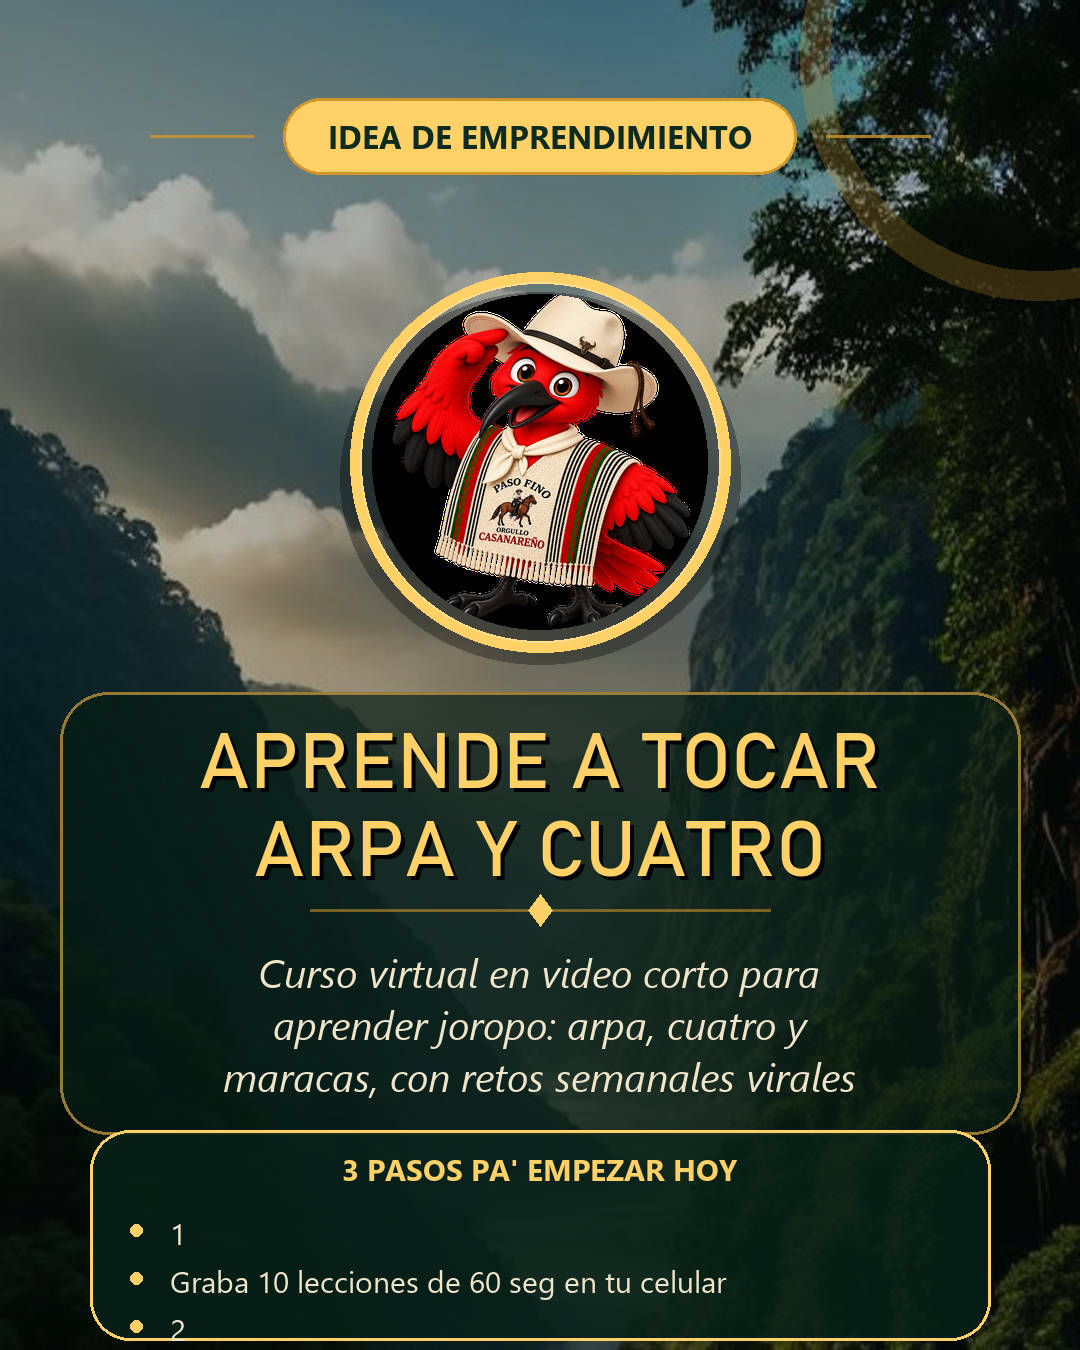
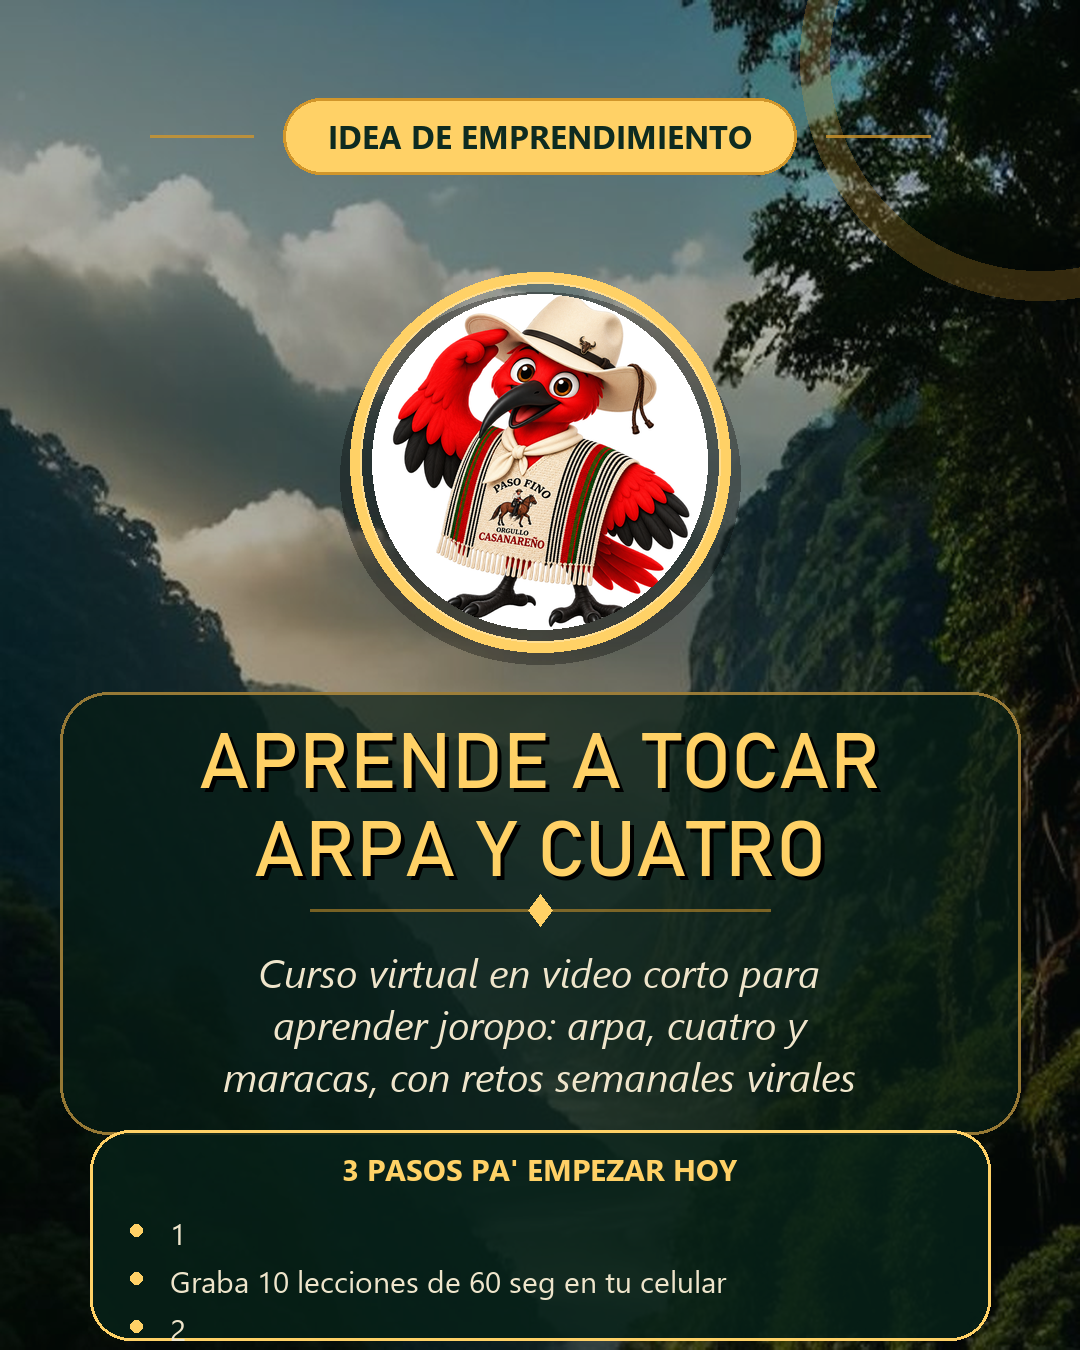
Objetivos del dia en el panel (5am idea, post, video, chats) + estilo profesional

Changed region(s): [[0.3361, 0.2178, 0.6722, 0.4667]]

diff --git a/backend/static/index.html b/backend/static/index.html
@@ -85,6 +85,18 @@ main{max-width:1020px;margin:0 auto;padding:22px 16px 56px}
 .bar:hover .v{filter:saturate(1.2)brightness(1.05)}
 .bar .d{font-size:11px;font-weight:800;margin-top:8px;color:#8a8178}
 .bar .d b{color:var(--negro)}
+/* objetivos del día */
+.objs{background:#fff;border:2px solid var(--borde);border-radius:22px;padding:8px 16px;box-shadow:0 8px 22px rgba(20,17,15,.06);animation:subir .5s ease backwards .1s}
+.objs .row{display:flex;align-items:center;gap:12px;padding:11px 0;border-bottom:1px solid #f6efe4}
+.objs .row:last-child{border-bottom:none}
+.objs .chk{width:34px;height:34px;border-radius:50%;border:2px dashed #e5dcc9;display:flex;align-items:center;justify-content:center;color:#b7ae9f;flex:0 0 34px}
+.objs .row.hecho .chk{background:linear-gradient(135deg,var(--amar),var(--nar));border:2px solid var(--nar);color:#fff;box-shadow:0 4px 10px rgba(255,107,0,.3)}
+.objs .row .tt{font-size:14px;font-weight:800;color:var(--negro)}
+.objs .row .tt i{margin-right:8px;color:var(--nar)}
+.objs .row .dt{font-size:12px;color:#8a8178;font-weight:700}
+.objs .row.hecho .tt i{color:#1f9d55}
+.objs .bol{margin-left:auto;font-size:11px;font-weight:900;letter-spacing:.5px;color:#b7ae9f;background:#f3efe8;border-radius:999px;padding:4px 12px}
+.objs .row.hecho .bol{background:linear-gradient(135deg,var(--amar),var(--nar));color:#fff}
 /* nota foto */
 .aviso{display:flex;flex-wrap:wrap;gap:12px;align-items:center;background:linear-gradient(120deg,#fffdf3,#ffe9c7);border:2px solid #ffdfae;border-radius:20px;padding:14px 18px;margin-top:16px;box-shadow:0 6px 16px rgba(255,192,0,.12)}
 .aviso .cal{width:46px;height:46px;border-radius:14px;background:linear-gradient(135deg,var(--amar),var(--nar));display:flex;align-items:center;justify-content:center;font-size:22px;flex:0 0 46px;box-shadow:inset 0 -3px 0 rgba(0,0,0,.15)}
@@ -154,9 +166,12 @@ footer b{color:var(--amar)}
         </svg>
         <div class="pct" id="ring-pct">0%</div>
       </div>
-      <div class="ring-txt" id="ring-txt">Objetivo del día: 10 mensajes</div>
+      <div class="ring-txt" id="ring-txt">Objetivos de hoy</div>
     </div>
   </section>
+
+  <div class="sec-titulo"><span class="chip g"><i class="fa-solid fa-bullseye"></i></span> Lo que Corocoro hace hoy (objetivos del día)</div>
+  <div class="objs" id="objs">Cargando...</div>
 
   <div class="sec-titulo"><span class="chip g"><i class="fa-solid fa-chart-simple"></i></span> Estadísticas generales</div>
   <div class="grid">
@@ -222,11 +237,36 @@ async function load(){
     document.getElementById('c-racha').textContent=racha;
 
     const hoy=st.mensajes_hoy||0;
-    const meta=10, pct=Math.min(100,Math.round((hoy/meta)*100));
+    const oj=st.objetivos||{};
+    const mh=10;
+    const metas=[
+      oj.propuesta,
+      (oj.contenido_hoy||0)>0,
+      (oj.video_hoy||0)>0,
+      hoy>=mh
+    ];
+    const hechas=metas.filter(Boolean).length, total=metas.length;
+    const pct=Math.min(100,Math.round((hechas/total)*100));
     const circ=document.getElementById('ring');
     circ.style.strokeDashoffset=301.6-(301.6*pct/100);
     document.getElementById('ring-pct').textContent=pct+'%';
-    if(pct>=100)document.getElementById('ring-txt').innerHTML='<i class="fa-solid fa-bullseye"></i> ¡Objetivo del día superado!';
+    document.getElementById('ring-txt').innerHTML=(pct>=100)?'<i class="fa-solid fa-fire"></i> ¡Todos los objetivos de hoy!':'Objetivos de hoy: <b>'+hechas+'</b>/'+total;
+    const objs=document.getElementById('objs'); objs.innerHTML='';
+    const objItems=[
+      {i:'fa-lightbulb', tt:'Idea del día (5 AM)', dt: oj.propuesta ? (((oj.propuesta_hora||'05:00'))+' · '+((oj.propuesta_titulo||'lista').slice(0,60))) : 'Corocoro investiga en las redes', ok:oj.propuesta},
+      {i:'fa-palette', tt:'Post de la idea', dt: (oj.contenido_hoy||0)>0 ? (oj.contenido_hoy+' generado hoy') : 'Aún sin diseñar', ok:(oj.contenido_hoy||0)>0},
+      {i:'fa-video', tt:'Video del día', dt: (oj.video_hoy||0)>0 ? (oj.video_hoy+' listo hoy') : 'Aún sin armar', ok:(oj.video_hoy||0)>0},
+      {i:'fa-comment', tt:'Buen arranque del chat', dt: hoy+'/'+mh+' personas escribieron hoy', ok:hoy>=mh}
+    ];
+    objItems.forEach(o=>{
+      const r=document.createElement('div'); r.className='row'+(o.ok?' hecho':'');
+      const c=document.createElement('div'); c.className='chk';
+      c.innerHTML=o.ok?'<i class="fa-solid fa-check"></i>':'<i class="fa-regular fa-circle"></i>';
+      const t=document.createElement('div');
+      t.innerHTML='<div class="tt"><i class="fa-solid '+o.i+'"></i> '+esc(o.tt)+'</div>'+(o.dt?'<div class="dt">'+esc(o.dt)+'</div>':'');
+      r.appendChild(c); r.appendChild(t);
+      const b=document.createElement('div'); b.className='bol'; b.textContent=o.ok?'HECHO':'PENDIENTE';
+      r.appendChild(b); objs.appendChild(r)});
 
     const bars=document.getElementById('bars'); bars.innerHTML='';
     const max=Math.max(1,...dias.map(d=>d.mensajes));

diff --git a/backend/app/services/stats.py b/backend/app/services/stats.py
@@ -15,6 +15,7 @@ def _default():
         "videos_generados": 0,
         "desde": None,
         "feed": [],
+        "log": {},
     }
 
 
@@ -31,7 +32,16 @@ def _load():
     s.setdefault("feed", [])
     s.setdefault("usuarios", {})
     s.setdefault("por_dia", {})
+    s.setdefault("log", {})
     return s
+
+
+def _log_hoy(s):
+    """Registro de objetivos del día (lo que Corocoro hace hoy)."""
+    hoy = datetime.date.today().isoformat()
+    log = s.get("log", {})
+    d = log.setdefault(hoy, {"contenido": 0, "video": 0, "propuesta": False, "propuesta_titulo": "", "propuesta_hora": ""})
+    return d
 
 
 def _save(s):
@@ -71,6 +81,19 @@ def registrar_evento(tipo: str):
         s = _load()
         key = "contenidos_generados" if tipo == "contenido" else "videos_generados"
         s[key] = s.get(key, 0) + 1
+        _log_hoy(s)["contenido" if tipo == "contenido" else "video"] += 1
+        _save(s)
+
+
+def registrar_propuesta(titulo: str = ""):
+    with _lock:
+        s = _load()
+        d = _log_hoy(s)
+        d["propuesta"] = True
+        if titulo:
+            d["propuesta_titulo"] = titulo
+        if not d.get("propuesta_hora"):
+            d["propuesta_hora"] = datetime.datetime.now().strftime("%H:%M")
         _save(s)
 
 
@@ -88,12 +111,20 @@ def resumen():
     ph = s.get("por_hora", {})
     for h in range(24):
         horas.append({"hora": h, "mensajes": ph.get(str(h), 0)})
+    logh = s.get("log", {}).get(hoy, {}) or {}
     return {
         "total_mensajes": s.get("total_mensajes", 0),
         "usuarios_unicos": len(usuarios),
         "mensajes_hoy": por_dia.get(hoy, 0),
         "contenidos_generados": s.get("contenidos_generados", 0),
         "videos_generados": s.get("videos_generados", 0),
+        "objetivos": {
+            "propuesta": bool(logh.get("propuesta")),
+            "propuesta_titulo": logh.get("propuesta_titulo", ""),
+            "propuesta_hora": logh.get("propuesta_hora", ""),
+            "contenido_hoy": logh.get("contenido", 0),
+            "video_hoy": logh.get("video", 0),
+        },
         "ultimos_7_dias": ultimos7,
         "desde": s.get("desde"),
         "por_hora": horas,

diff --git a/backend/app/main.py b/backend/app/main.py
@@ -118,11 +118,19 @@ async def video_auto():
 
 @app.post("/propuesta")
 async def propuesta_manual():
-    return await generar_propuesta_diaria()
+    data = await generar_propuesta_diaria()
+    p = data.get("propuesta") or {}
+    if p:
+        stats.registrar_propuesta(p.get("titulo", ""))
+    return data
 
 @app.get("/propuesta")
 async def propuesta_get():
-    return await generar_propuesta_diaria()
+    data = await generar_propuesta_diaria()
+    p = data.get("propuesta") or {}
+    if p:
+        stats.registrar_propuesta(p.get("titulo", ""))
+    return data
 
 @app.post("/avatar")
 async def avatar(data: bytes = Body(...)):

diff --git a/backend/app/services/scheduler.py b/backend/app/services/scheduler.py
@@ -23,6 +23,8 @@ async def enviar_propuesta_admin():
     data = await generar_propuesta_diaria()
     p = data.get("propuesta", {})
     pathlib.Path("static/propuesta_diaria.json").write_text(json.dumps(data, ensure_ascii=False, indent=2), encoding="utf-8")
+    from app.services import stats
+    stats.registrar_propuesta(p.get("titulo", ""))
     admin_id = get_admin_chat_id()
     token = os.getenv("TELEGRAM_BOT_TOKEN", "")
     if not (admin_id and token and p):
